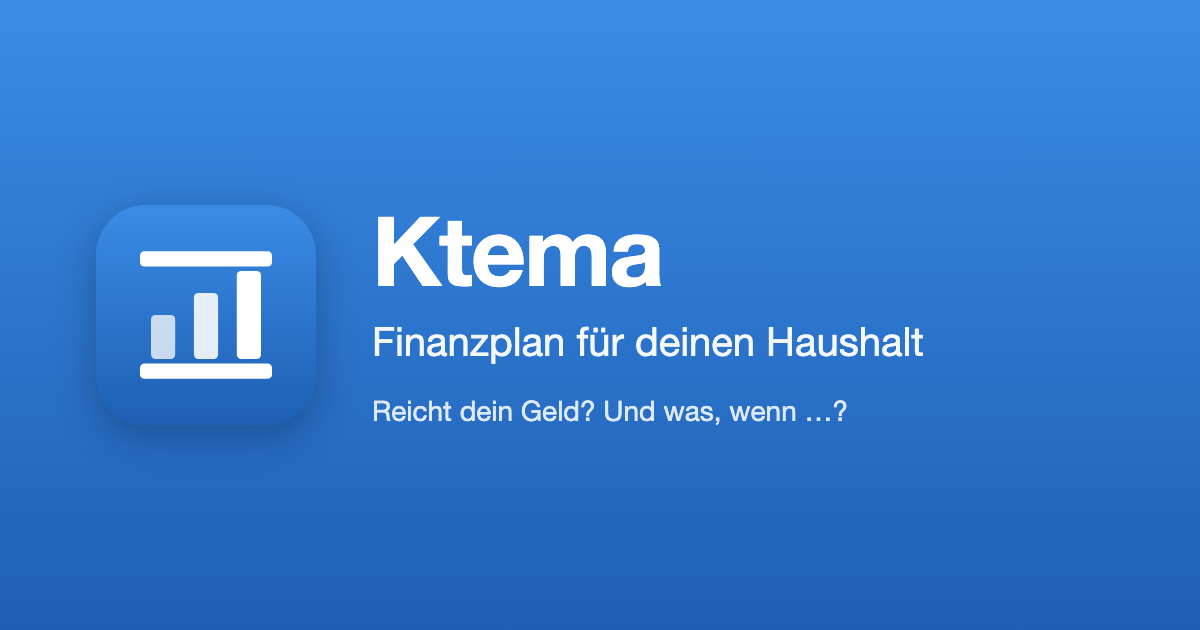
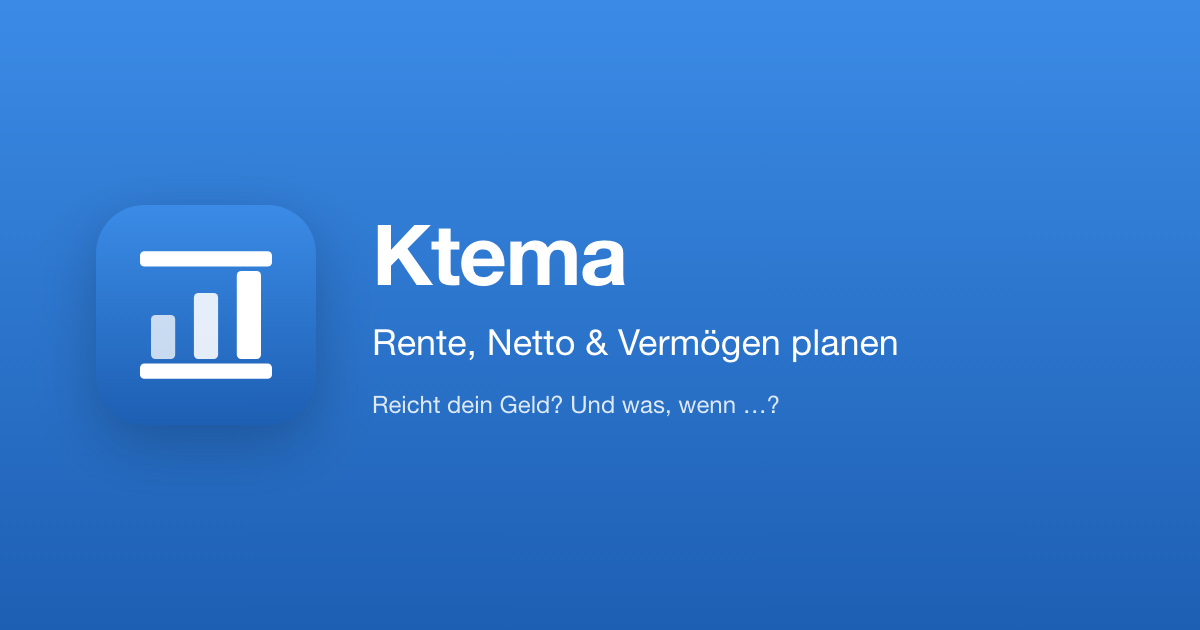
Bilder von Version 1.0.1, Untertitel wie im App Store, Plus korrekt gekennzeichnet

Changed region(s): [[0.3083, 0.5127, 0.7708, 0.573], [0.3083, 0.3317, 0.555, 0.4524], [0.3083, 0.6333, 0.7092, 0.6937]]

diff --git a/index.html b/index.html
@@ -3,7 +3,7 @@
 <head>
   <meta charset="utf-8">
   <meta name="viewport" content="width=device-width, initial-scale=1">
-  <title>Ktema: Finanzplan für deinen Haushalt</title>
+  <title>Ktema: Rente, Netto &amp; Vermögen planen</title>
   <meta name="description" content="Ktema rechnet deinen Haushalt Jahr für Jahr durch und zeigt, was sich ändert, wenn das Leben anders kommt. Ohne Konto, ohne Werbung, alles auf dem Gerät.">
   <link rel="icon" href="icon.svg" type="image/svg+xml">
   <link rel="apple-touch-icon" href="apple-touch-icon.png">
@@ -11,7 +11,7 @@
   <meta name="theme-color" content="#2a78d6">
   <meta property="og:type" content="website">
   <meta property="og:url" content="https://ktema.de/">
-  <meta property="og:title" content="Ktema: Finanzplan für deinen Haushalt">
+  <meta property="og:title" content="Ktema: Rente, Netto &amp; Vermögen planen">
   <meta property="og:description" content="Reicht dein Geld? Und was, wenn …? Ktema rechnet deinen Haushalt Jahr für Jahr durch. Ohne Konto, ohne Werbung.">
   <meta property="og:image" content="https://ktema.de/bilder/teilen.png">
   <meta property="og:image:width" content="1200">
@@ -57,7 +57,8 @@
       <div class="features">
         <div class="card">
           <h2>Das Ergebnis in einem Satz</h2>
-          <p>„Das Geld reicht bis 95.“ Darunter siehst du, wovon du wann lebst und wann du frühestens aufhören könntest.</p>
+          <p>„Das Geld reicht bis 95.“ Darunter siehst du, wovon du in welchem Lebensabschnitt lebst und wie sich dein
+            Vermögen entwickelt.</p>
         </div>
         <div class="card">
           <h2>Gerechnet wie im echten Leben</h2>
@@ -66,7 +67,8 @@
         </div>
         <div class="card">
           <h2>Was wäre, wenn …?</h2>
-          <p>Szenarien gegen deinen Plan, Jahr für Jahr. Was du entscheidest, übernimmst du mit einem Tipp.</p>
+          <p>Ein Kind, ein Hauskauf, Teilzeit oder früher aufhören: Ktema zeigt sofort, was sich gegenüber deinem Plan
+            ändert. Ein Szenario ist kostenlos, mit Ktema Plus vergleichst du beliebig viele Jahr für Jahr.</p>
         </div>
         <div class="card">
           <h2>Deine Daten bleiben bei dir</h2>
